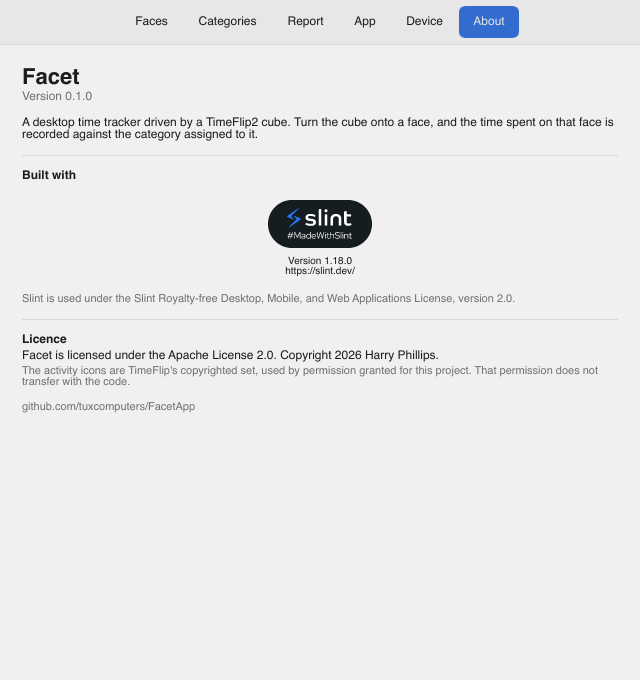
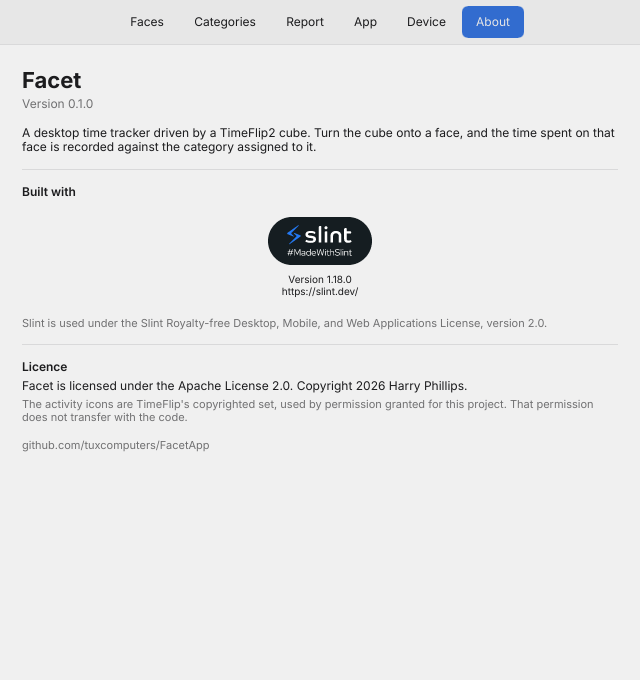
Re-render the Mac Settings tabs with Inter packaged
docs/settings-tabs/mac/ now shows 26b9f40. The README marks compare/ as
stale until the Linux set is re-rendered with the same font, and records
where the panels now end.

diff --git a/docs/settings-tabs/README.md b/docs/settings-tabs/README.md
@@ -14,14 +14,14 @@ Then copy the six files into the folder for the machine you are on.
 | | |
 |---|---|
 | [`linux/`](linux/) | Linux Mint 22.3, MATE 1.26.1, X11. Rendered 2026-09-25 at `cf58ebd` |
-| [`mac/`](mac/) | macOS 26.6, Apple silicon. Rendered 2026-09-25 at `2bc9721` |
-| [`compare/`](compare/) | One image per tab: Mac, Linux, and the pixels that differ between them |
+| [`mac/`](mac/) | macOS 26.6.2, Apple silicon. Rendered 2026-09-25 at `26b9f40`, **with Inter packaged** |
+| [`compare/`](compare/) | One image per tab: Mac, Linux, and the pixels that differ between them. **Stale**: both halves predate Inter, and it is rebuilt once `linux/` is re-rendered |
 
 **These are Slint's software renderer, not screenshots of the running app.** It draws into a buffer with
 no window server involved, so window chrome and compositing are out of the comparison.
 
 **Fonts are not.** The renderer rasterises the glyphs itself but takes the typeface from the system's font
-stack, unless the UI packages its own. So a difference between two folders is a difference in layout *or*
+stack, unless the UI packages its own, which it now does: `facet-ui` compiles Inter into the binary. So a difference between two folders is a difference in layout *or*
 in the font each machine supplied, and `compare/` shows which.
 
 **What they cannot answer**: how the real window looks. Window chrome is the platform's, so running the
@@ -83,3 +83,8 @@ taller. The height difference accumulates down a tab, so panel boxes finish lowe
 
 **So the layout is shared and the font is not.** The fix is packaging a font with `facet-ui`, after which
 the two folders should come out identical.
+
+**Inter is now packaged** (`26b9f40`) and `mac/` is re-rendered with it. Horizontal positions are
+unchanged; the last panel on each tab now ends at Report y 405, Device y 514, Categories y 386 and App
+y 448, between the two old sets. The measurements above describe the pre-Inter renders and stay as the
+record of why the font was packaged.
